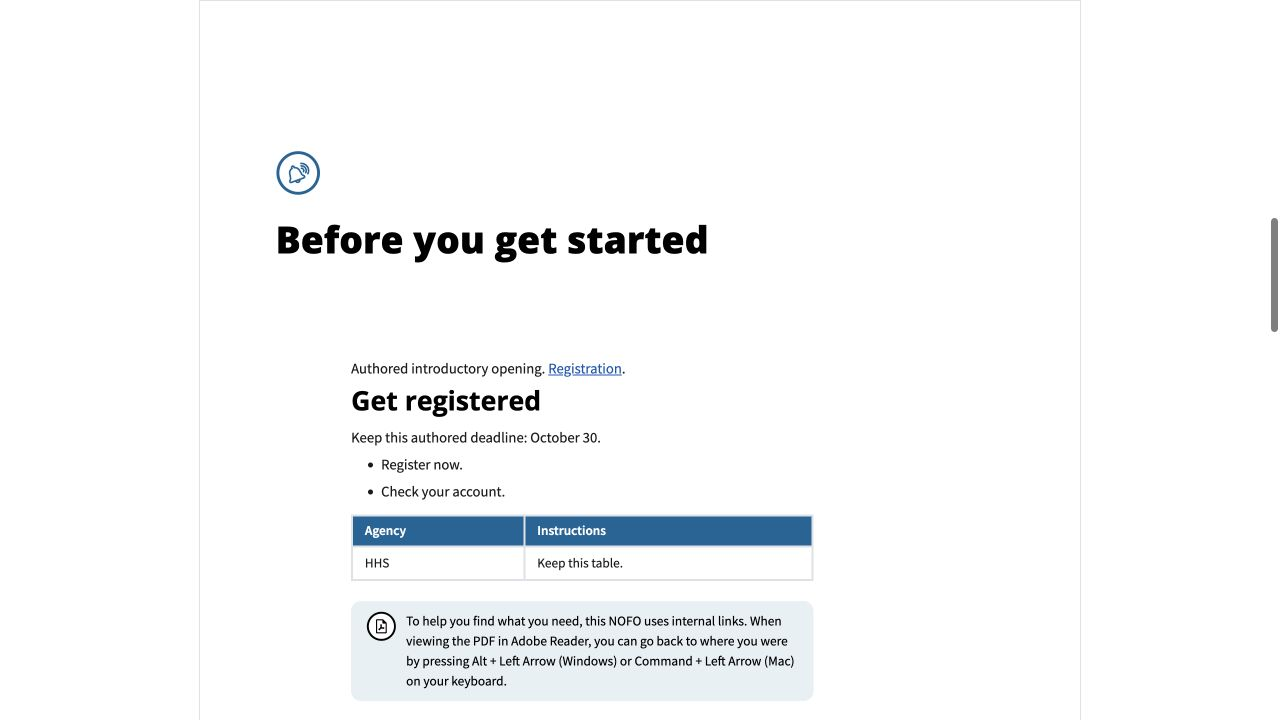
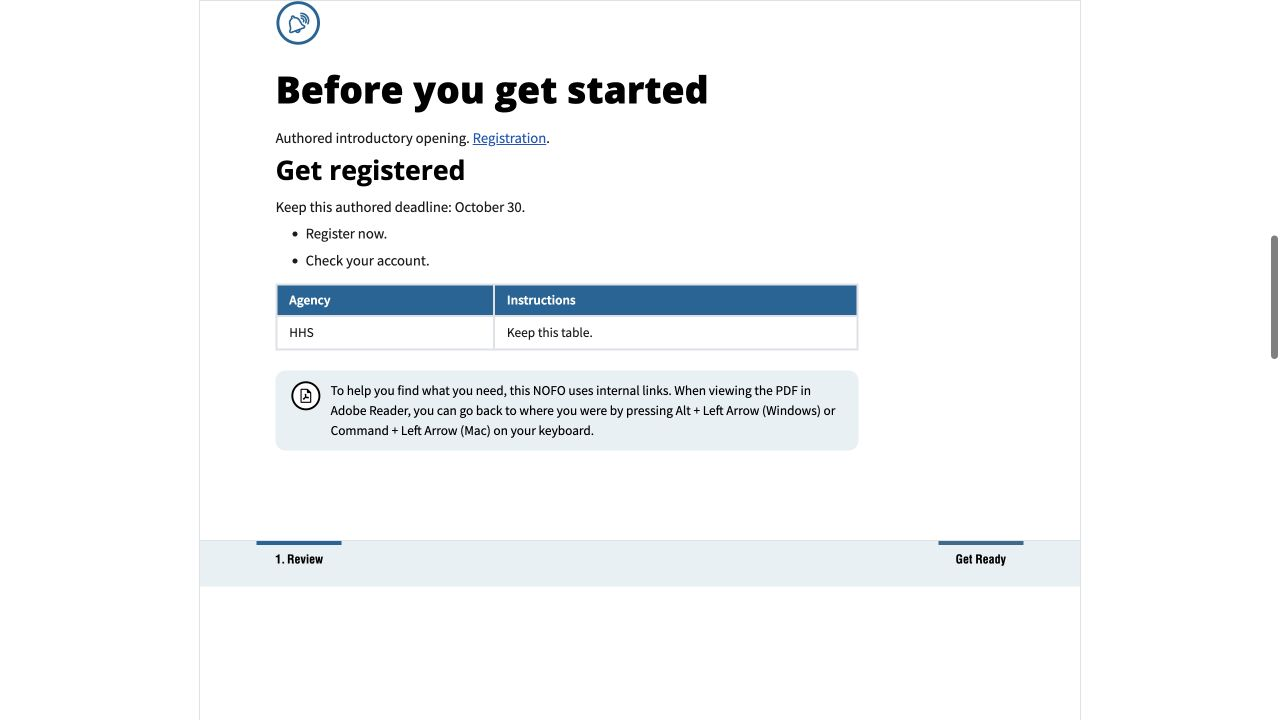
fix: align imported introduction spacing in preview and PDF

diff --git a/nofos/bloom_nofos/static/theme-base.css b/nofos/bloom_nofos/static/theme-base.css
@@ -1399,8 +1399,13 @@ section.before-you-begin.before-you-begin--get-started {
 
 /* Imported introductory prose uses ordinary section typography. Only its
    fixed heading and theme-aware icon receive the introductory treatment. */
-section.before-you-begin--imported {
+section.before-you-begin.before-you-begin--imported {
   padding-top: 0;
+}
+@media screen {
+  .before-you-begin--imported > .section--content {
+    padding: 0;
+  }
 }
 .before-you-begin--imported > h2 {
   font-size: 28pt;

diff --git a/documentation/review-evidence/editable-intro-1115/README.md b/documentation/review-evidence/editable-intro-1115/README.md
@@ -84,8 +84,8 @@ accessibility conformance.
 
 - Portrait HRSA/solid icon: eight pages, imported body on page 3.
 - Landscape CDC/thin icon: eight pages, imported body on page 3.
-- Long portrait source: twelve pages, intro spanning pages 3-7 without forced
-  shrinking. Step 1 follows on page 8. Introductory footer remains consistent.
+- Long portrait source: eleven pages, intro spanning pages 3-6 without forced
+  shrinking. Step 1 follows on page 7. Introductory footer remains consistent.
 
 PDF pages and navigation annotations are inspected separately from HTML. The
 vendor's test watermarks are expected. Short main sections intentionally leave
@@ -93,7 +93,7 @@ substantial whitespace on section-divider pages.
 
 Parsed actual PDF annotations confirm both Step 2 links land on introductory
 page 3 in short portrait/landscape outputs; in the long output the parent lands
-on page 3 and the authored child heading on page 7. Every introductory page's
+on page 3 and the authored child heading on page 6. Every introductory page's
 extracted footer retains “Before you get started.” Reviewed changed-region
 rasters include compact TOC, both short introductory pages and the multi-page
 continuation; this is not full-document visual clearance or an accessibility
